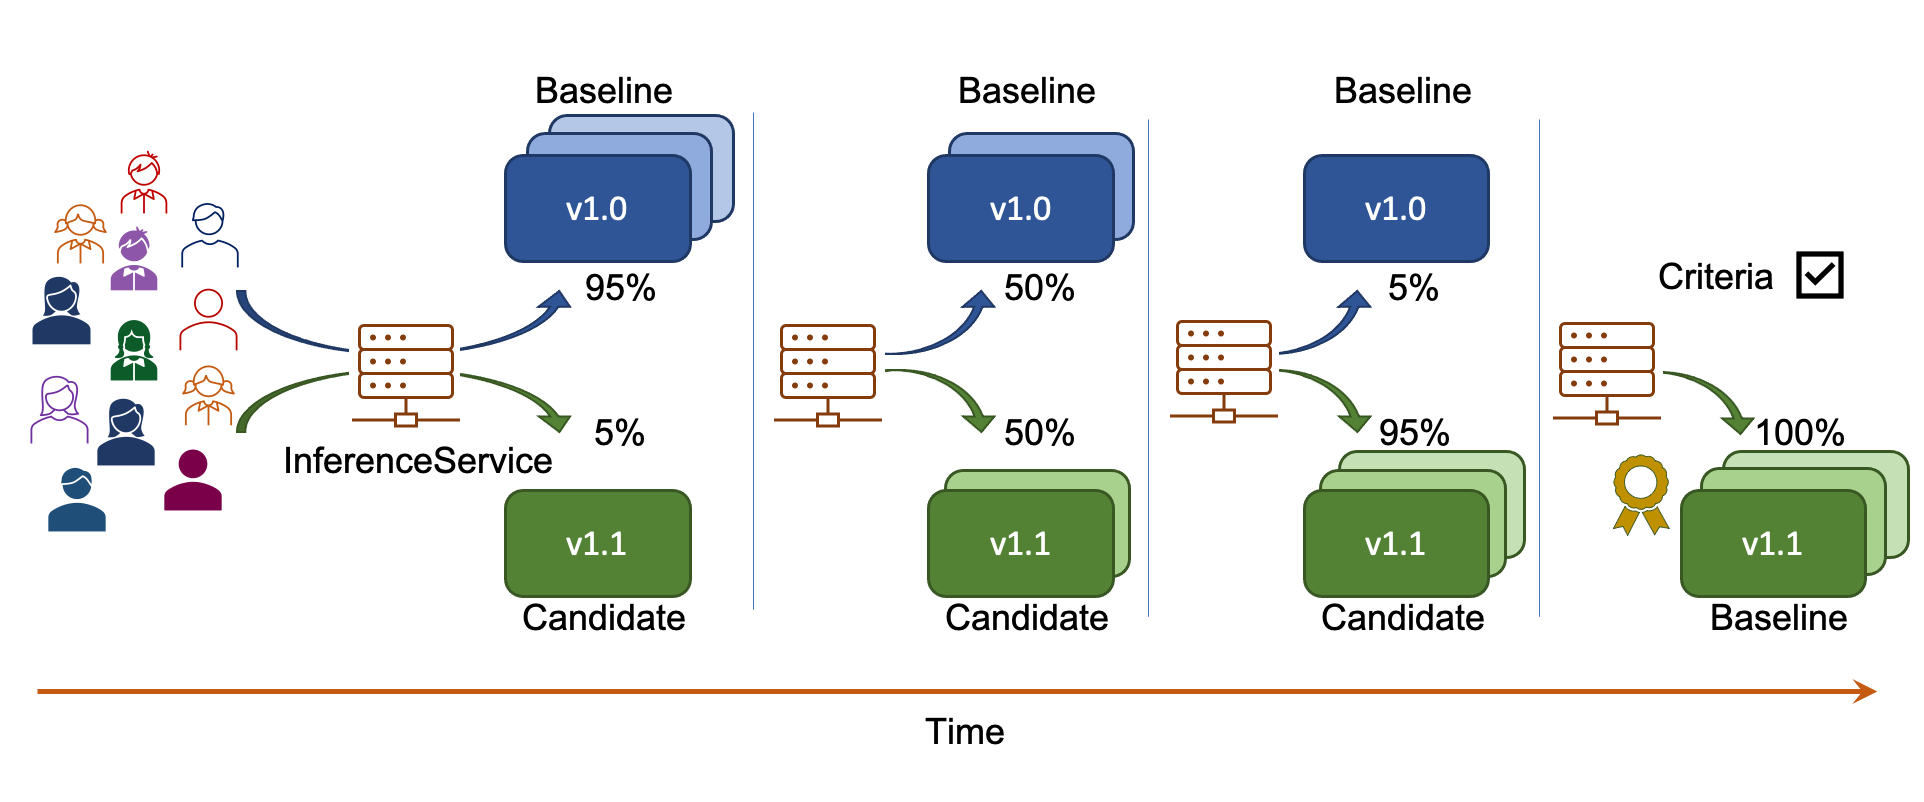
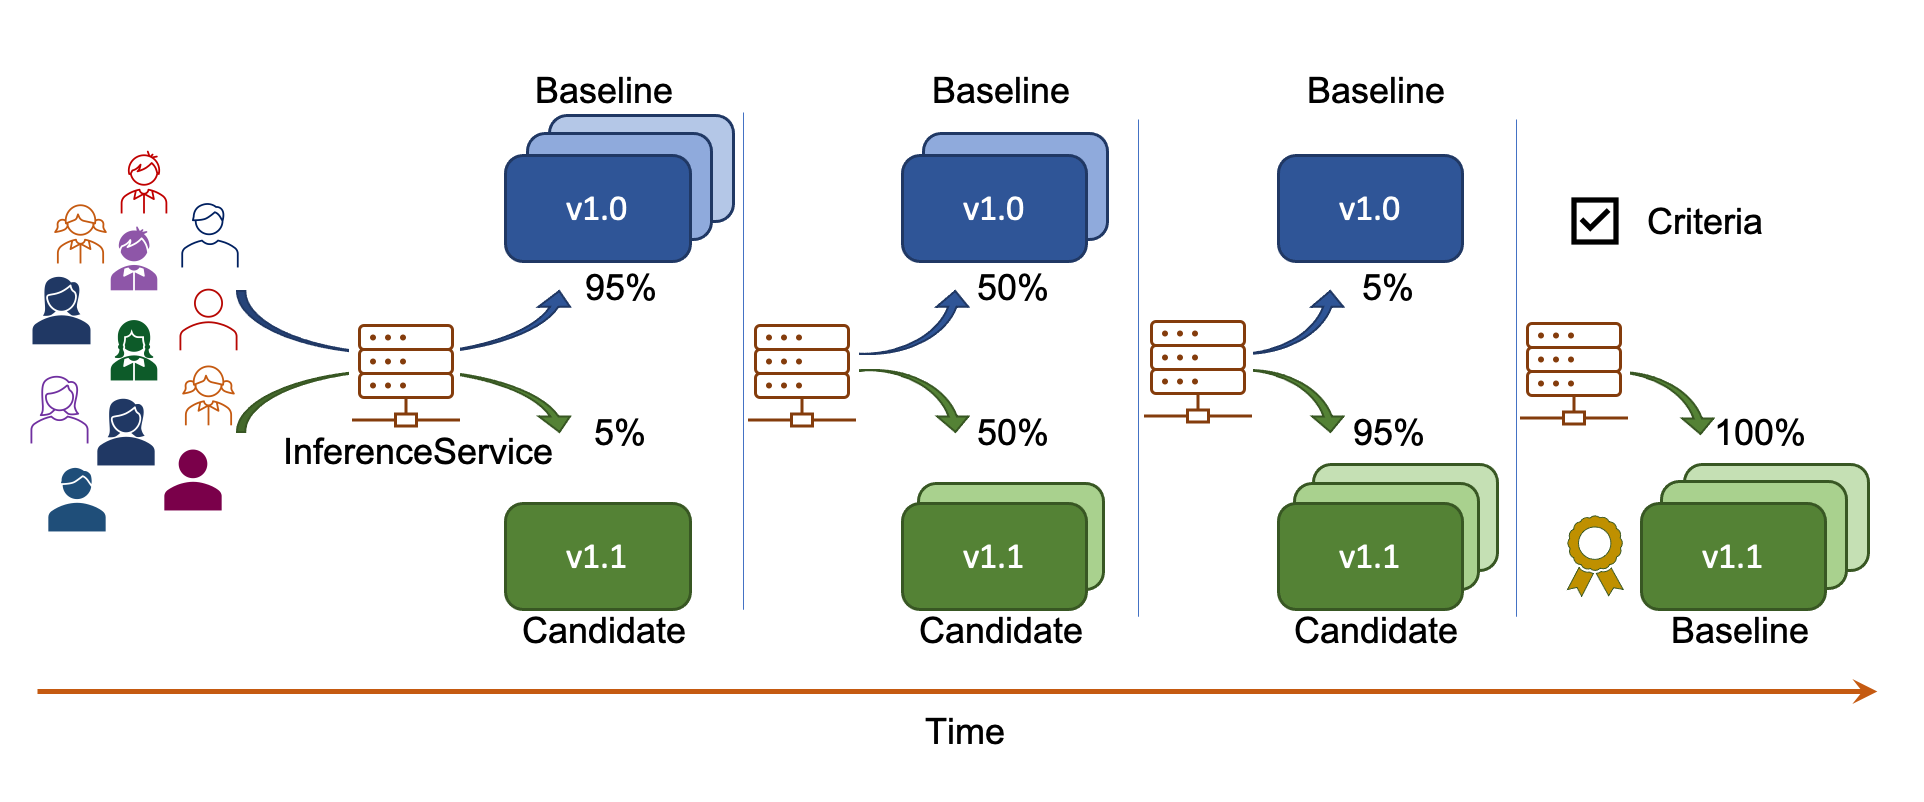
new images (#15)
* new images

* performance description

diff --git a/docs/experiments.md b/docs/experiments.md
@@ -8,23 +8,23 @@ Iter8-kfserving supports **four** basic experimentation strategies, namely, *Can
 
 ### Canary, A/B, BlueGreen and Performance experiments
 
-**Canary:**  In a Canary experiment, there is a baseline version (default predictor) and a candidate version (canary predictor). If the candidate version satisfies the `experiment criteria`, then it is declared as the `winner`. Otherwise, baseline is declared as the winner.
+**Canary:**  In a Canary experiment, there is a baseline version (default predictor) and a candidate version (canary predictor). If the candidate version satisfies the `experiment criteria`, then it is declared as the `winner`. Otherwise, the baseline is declared as the winner.
 
 **A/B:**  In an A/B experiment, there is a baseline version and a candidate version.
 
 Candidate is the winner if:
-1. Candidate satisfies the experiment criteria and baseline does not, or
-2. Candidate satisfies the experiment criteria and has a better `reward` than baseline.
+1. Candidate satisfies the experiment criteria and the baseline does not, or
+2. Candidate satisfies the experiment criteria and has a better `reward` than the baseline.
 
 Baseline is the winner if:
-1. Baseline satisfies the experiment criteria and candidate does not, or
-2. Baseline satisfies the experiment criteria and has a better reward than candidate.
+1. Baseline satisfies the experiment criteria and the candidate does not, or
+2. Baseline satisfies the experiment criteria and has a better reward than the candidate.
 
-A/B experiments can end without a winner being found (for instance, when both baseline and candidate fails to satisfy the experiment criteria).
+A/B experiments can end without a winner being found (for instance, when both baseline and candidate fail to satisfy the experiment criteria).
 
-**BlueGreen:**  In a BlueGreen experiment, there is a baseline version and a candidate version. All traffic flows to the candidate during the experiment. If candidate fails to satisfy the experiment criteria at any point during the experiment, then the experiment ends immediately and the baseline version is restored.
+**BlueGreen:**  In a BlueGreen experiment, there is a baseline version and a candidate version. All traffic flows to the candidate during the experiment. If the candidate fails to satisfy the experiment criteria at any point during the experiment, then the experiment ends immediately and the baseline version is restored.
 
-**Performance:**  In a Performance experiment, there is a single version (baseline). The experiment checks if the baseline satisfies the criteria or not.
+**Performance:**  In a Performance experiment, there is a single version (baseline). The experiment checks if the baseline satisfies the experiment criteria.
 
 ### Customization
 In general, an iter8-kfserving experiment can be customized along the following three dimensions.
@@ -32,7 +32,7 @@ In general, an iter8-kfserving experiment can be customized along the following 
 1. Traffic split during the experiment
     * fixed: traffic split is held fixed between the two model versions during the experiment
     * progressive: traffic split is progressively shifted towards the *winner* (see the `Examples` section below)
-2. Behavior when candidate (canary version) fails experiment criteria during the experiment
+2. Behavior when the candidate fails experiment criteria during the experiment
     * end experiment immediately
     * no-op
 3. End-of-experiment behavior
@@ -45,34 +45,39 @@ In general, an iter8-kfserving experiment can be customized along the following 
 The following examples illustrate a few iter8 experiment scenarios.
 
 #### Progressive canary rollout
-This figure illustrates a progressive canary rollout experiment. In this example, candidate satisfies the experiment criteria and is declared the winner at the end of the experiment; traffic is progressively shifted from baseline to candidate during the experiment, and candidate is promoted as the new baseline at the end of the experiment.
+This figure illustrates a progressive canary rollout experiment. In this example, the candidate satisfies the experiment criteria and is declared the winner at the end of the experiment; traffic is progressively shifted from the baseline to the candidate during the experiment, and the candidate is promoted as the new baseline at the end of the experiment.
+
+Try this example using [this sample experiment](../samples/experiments/progressivecanaryrollout.yaml).
 
 ![Progressive canary rollout](images/progressivecanaryrollout.png)
 
-You can exercise this example using [this sample experiment object](../samples/experiments/progressivecanaryrollout.yaml).
+#### Fixed-split A/B testing with webhook notification
+This figure illustrates a fixed-split A/B testing experiment with webhook notification. In this example, the candidate satisfies the experiment criteria, has a better reward compared to the baseline, and is declared the winner at the end of the experiment; traffic split is fixed throughout the experiment; a webhook notification to an external service is sent at the end of the experiment.
 
+Try this example using [this sample experiment](../samples/experiments/fixedsplitabtest.yaml).
 
-#### Fixed-split A/B testing
-This figure illustrates a fixed-split A/B testing experiment. In this scenario, candidate satisfies the experiment criteria, has a better reward compared to the baseline, and is declared the winner at the end of the experiment; traffic split is fixed throughout the experiment.
-
-![Fixed-split A/B testing](images/fixedsplitabtesting.png)
-
-You can exercise this scenario using [this sample experiment object](../samples/experiments/fixedsplitabtest.yaml).
+![Fixed-split A/B testing with webhook notification](images/fixedsplitabtestingwithwebhooknotification.png)
 
 #### Progressive A/B rollout with Git push
-The following figure illustrates a progressive A/B rollout experiment with Git push. In this scenario, candidate satisfies the experiment criteria, has a better reward compared to the baseline, and is declared the winner at the end of the experiment; traffic is progressively shifted from baseline to candidate during the experiment, and a new InferenceService yaml with the candidate as the default model version is Git pushed.
+The following figure illustrates a progressive A/B rollout experiment with Git push. In this example, the candidate satisfies the experiment criteria, has a better reward compared to the baseline, and is declared the winner at the end of the experiment; traffic is progressively shifted from the baseline to the candidate during the experiment, and a new InferenceService yaml with the candidate as the default model version is Git pushed.
 
-You can exercise this scenario using [this sample experiment object](../samples/experiments/progressiveabrolloutwithgitpush.yaml).
+Try this example using [this sample experiment](../samples/experiments/progressiveabrolloutwithgitpush.yaml).
+
+![Progressive A/B rollout with Git push](images/progressiveabrolloutwithgitpush.png)
 
 #### BlueGreen deployment
-The following figure illustrates a BlueGreen deployment experiment. In this scenario, candidate satisfies the experiment criteria and is declared the winner at the end of the experiment; all traffic is sent to the candidate during the experiment, and candidate is promoted as the new baseline at the end of the experiment. 
+The following figure illustrates a BlueGreen deployment experiment. In this example, the candidate satisfies the experiment criteria and is declared the winner at the end of the experiment; all traffic is sent to the candidate during the experiment, and the candidate is promoted as the new baseline at the end of the experiment. 
 
-You can exercise this scenario using [this sample experiment object](../samples/experiments/bluegreendeployment.yaml).
+Try this example using [this sample experiment](../samples/experiments/bluegreendeployment.yaml).
+
+![BlueGreen deployment](images/bluegreendeployment.png)
 
 #### Performance testing
-The following figure illustrates a performance testing experiment. In this scenario, the baseline satisfies the experiment criteria.
+The following figure illustrates a performance testing experiment. In this example, the baseline satisfies the experiment criteria.
 
-You can exercise this scenario using [this sample experiment object](../samples/experiments/performancetest.yaml).
+Try this example using [this sample experiment](../samples/experiments/performancetesting.yaml).
+
+![Performance testing](images/performancetesting.png)
 
 ## Metrics
 
